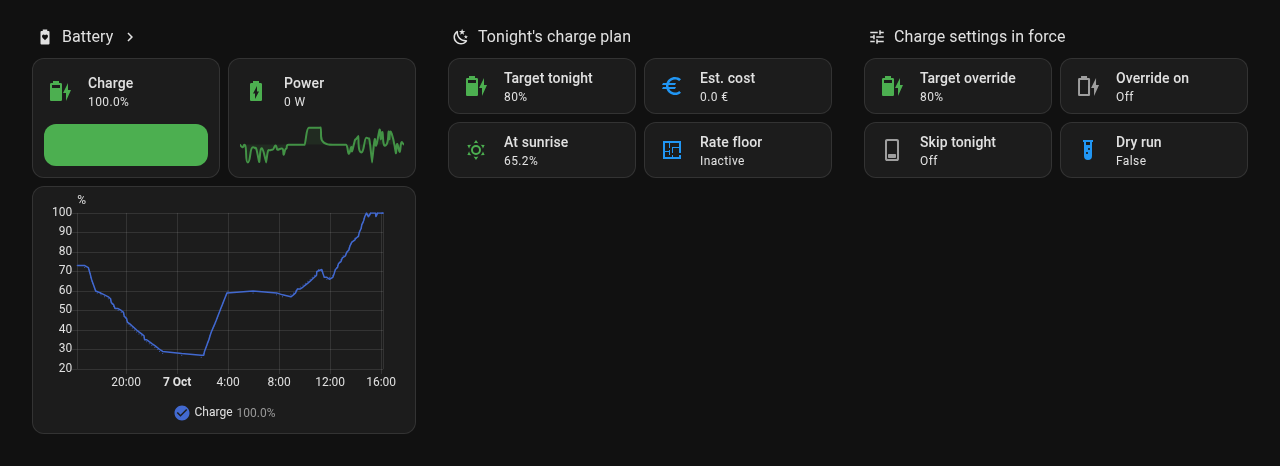
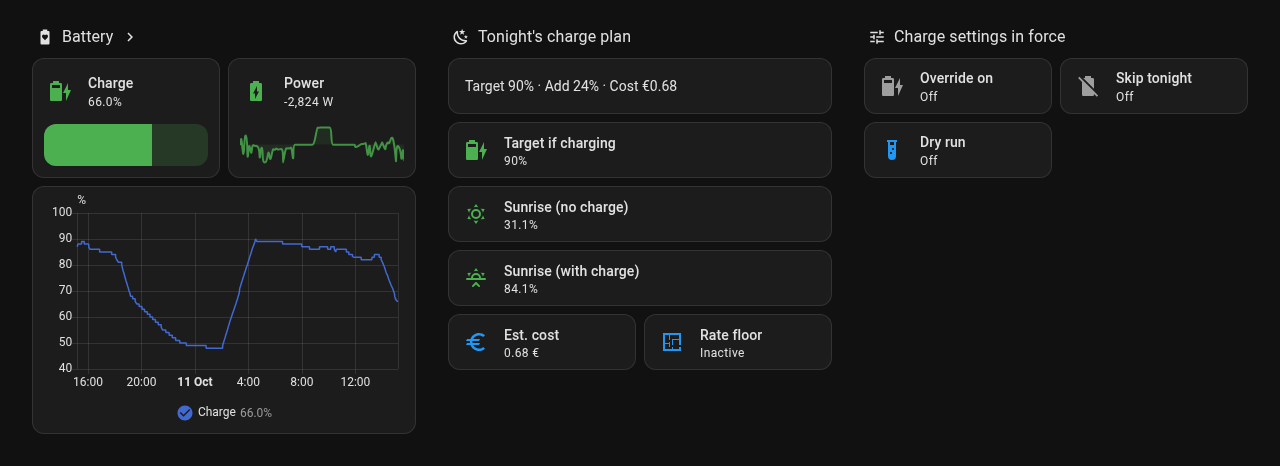
docs(dashboard): retake the dashboard screenshots for 0.18

diff --git a/docs/dashboard.md b/docs/dashboard.md
@@ -156,9 +156,7 @@ For the EV load, the dashboard uses the first of these entities that exists, els
 
 ### Immersion (sub-view)
 
-![Immersion view with the water temperature chart, the heater shaded while it is on, and the reason for the divert decision.](images/dashboard-immersion.png)
-
-This screenshot is from an earlier version, which drew the heater as a shaded band. The chart is now a history graph with the heater's power as a line.
+![Immersion view with the water temperature and heater power graphs, the reason for the divert decision, the ready-by plan, the cheapest way to heat the water, and the settings in force.](images/dashboard-immersion.png)
 
 Each section shows only while the device it needs exists.
 
@@ -235,7 +233,7 @@ Like the table, the list is read from your options each time the dashboard opens
 
 ### Battery
 
-![Battery view with state of charge graph, tonight's charge plan and the charge settings in force.](images/dashboard-battery.png)
+![Battery view with the state of charge graph, tonight's charge plan with the sunrise figures without and with the planned charge, and the charge settings in force.](images/dashboard-battery.png)
 
 - **Battery**: state of charge with a bar, battery power with a 24-hour trend, and a 24-hour history of state of charge. The heading opens Battery detail.
 - **Tonight's charge plan**: the plan in one sentence first, then Target if charging (the target the plan would set if tonight charges, which is not a promise that it does, on a full-width tile), Sunrise (no charge) and Sunrise (with charge) on full-width tiles (the estimated state of charge at sunrise without and with tonight's planned charge), Est. cost and Rate floor (the cheap rate floor). The sentence is the Tonight's charge plan sensor, and says outright whether tonight charges (`Target 78% · Add 34% · Cost €0.51`) or is skipped (`Skip charge · Plan forecast 8.2 kWh · SoC 64%`). The sensor is enabled by default. If you disabled it, the tiles show alone.
@@ -251,7 +249,7 @@ State of charge and power are not drawn on one graph, because a percentage and w
 
 ### Settings (sub-view, administrators only)
 
-![Settings view with the charge target slider, the skip tonight toggle and the immersion heater controls.](images/dashboard-settings.png)
+![Settings view with the Dry run switch, the overnight charging controls, the Tuning sliders and the immersion heater controls.](images/dashboard-settings.png)
 
 - **Dry run**: the Dry run switch. Turn it off to go live. It cannot be turned off on a test instance.
 - **Overnight charging**: a Target override slider, and the Override on and Skip tonight switches. They carry the names the Battery tab gives the same settings.
